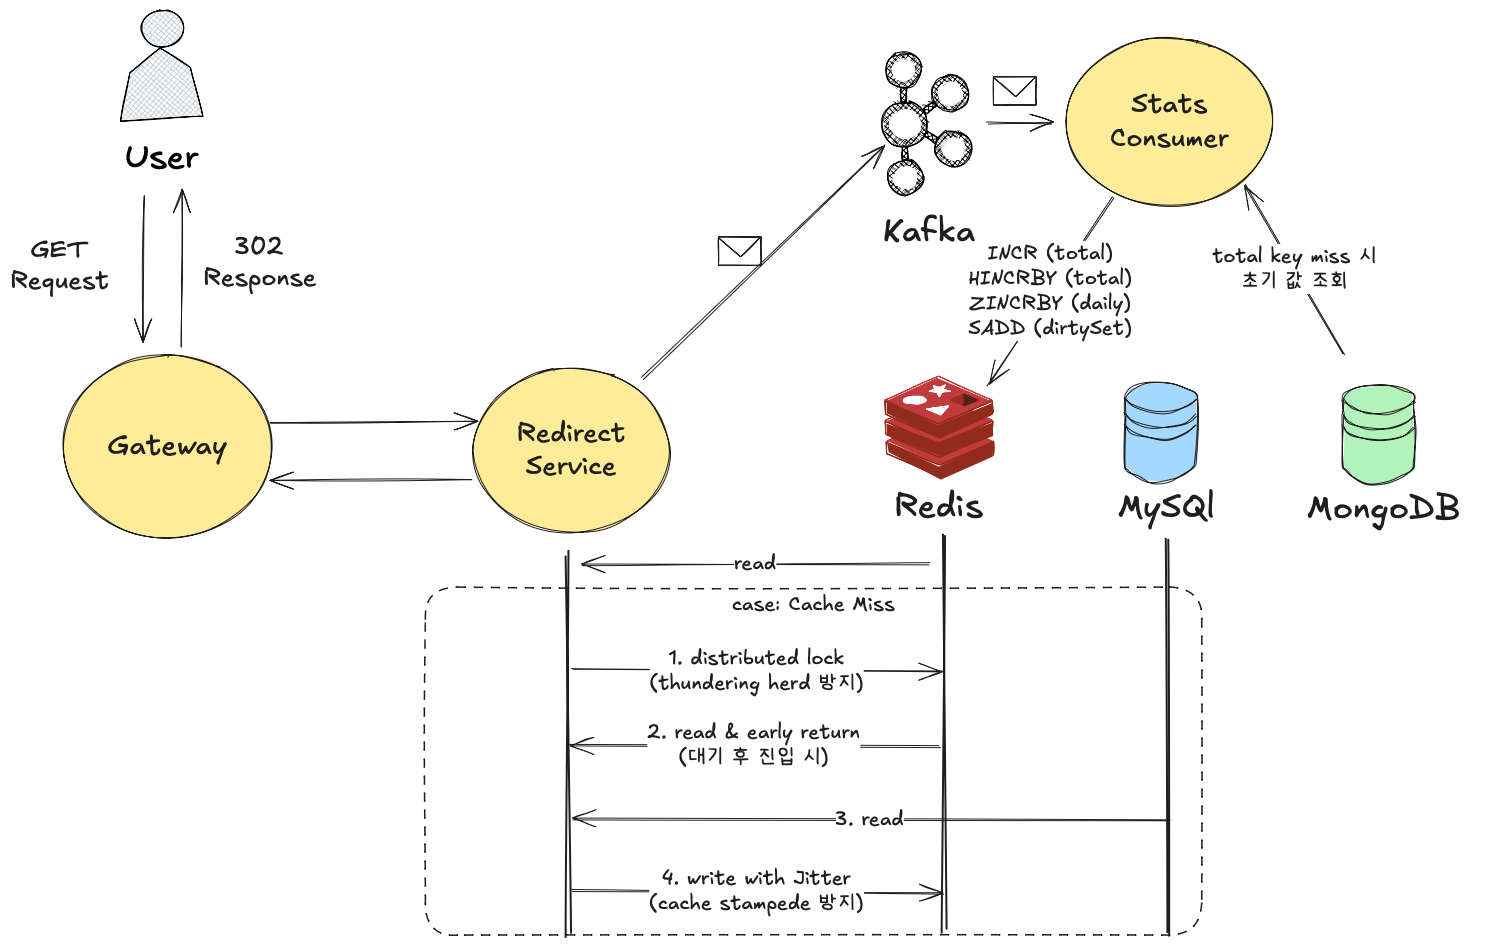
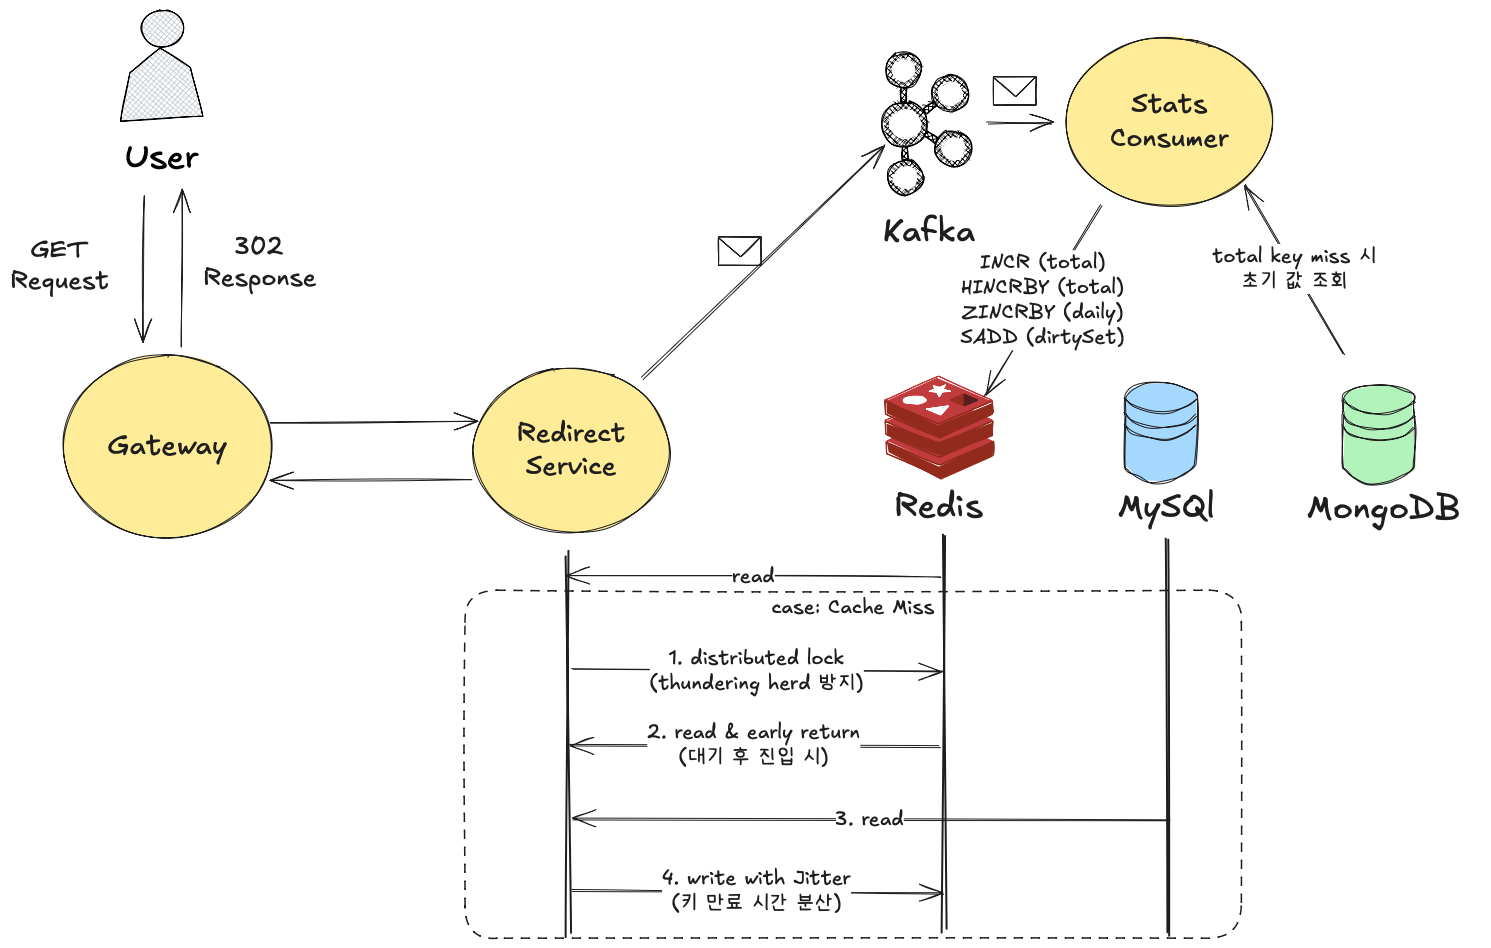
docs(redirect): redirect 캐시 전략 설명 보완

diff --git a/short-url/src/main/kotlin/com/naver/pay/shorturl/ShortUrlRepository.kt b/short-url/src/main/kotlin/com/naver/pay/shorturl/ShortUrlRepository.kt
@@ -29,9 +29,9 @@ class ShortUrlRepository(
      * shortKey로 RedirectUrl 도메인 객체를 조회합니다.
      * 
      * 캐시에서 redirectUrl과 expiresAt을 조회하고, 없을 경우 DB에서 조회 후 캐시에 저장합니다.
-     * Cache Stampede 방지를 위해 Jitter(0~60분)를 추가하여 캐싱합니다.
-     * Thundering herd 방지를 위해 조회 로직에 분산락을 사용합니다.
-     * 
+     * 특정 키에 대한 Thundering herd 방지를 위해 조회 로직에 분산락을 사용합니다.
+     * 전체 키들에 대한 Thundering herd 방지를 위해 Jitter(0~60분)를 추가하여 캐싱합니다.
+     *
      * @param shortKey 조회할 ShortUrl의 shortKey
      * @param userAgent 사용자 에이전트 (이벤트 발행용)
      * @param referrer 리퍼러 (이벤트 발행용)

diff --git a/README.md b/README.md
@@ -219,11 +219,11 @@ Short URL 리다이렉트는 **응답 시간 최우선**과 **캐시 최적화**
 
 #### 1. 캐시 처리 전략
 
-**Thundering Herd 방지**:
+**특정 Hot Key Thundering Herd 방지**:
 - 캐시 미스 발생 시 분산 락을 획득하여 동시에 여러 요청이 MySQL에 접근하는 것을 방지합니다.
 - 락 획득 후 재차 캐시를 확인하여 다른 프로세스가 캐시를 채운 경우 early return합니다.
 
-**Cache Stampede 방지**:
+**전체 시스템 부하 분산**:
 - 캐시 TTL에 0~60분의 랜덤 값(Jitter)을 추가하여 만료 시각을 분산시킵니다.
 - 동일한 시각에 많은 캐시 항목이 동시에 만료되는 것을 방지합니다.
 
